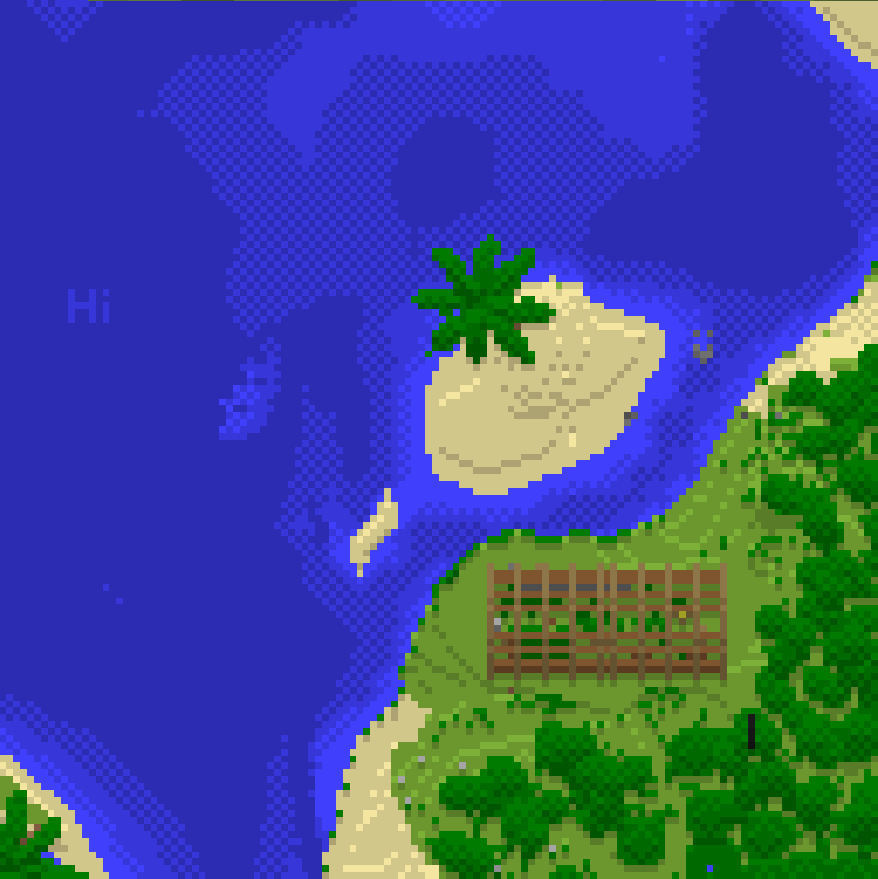
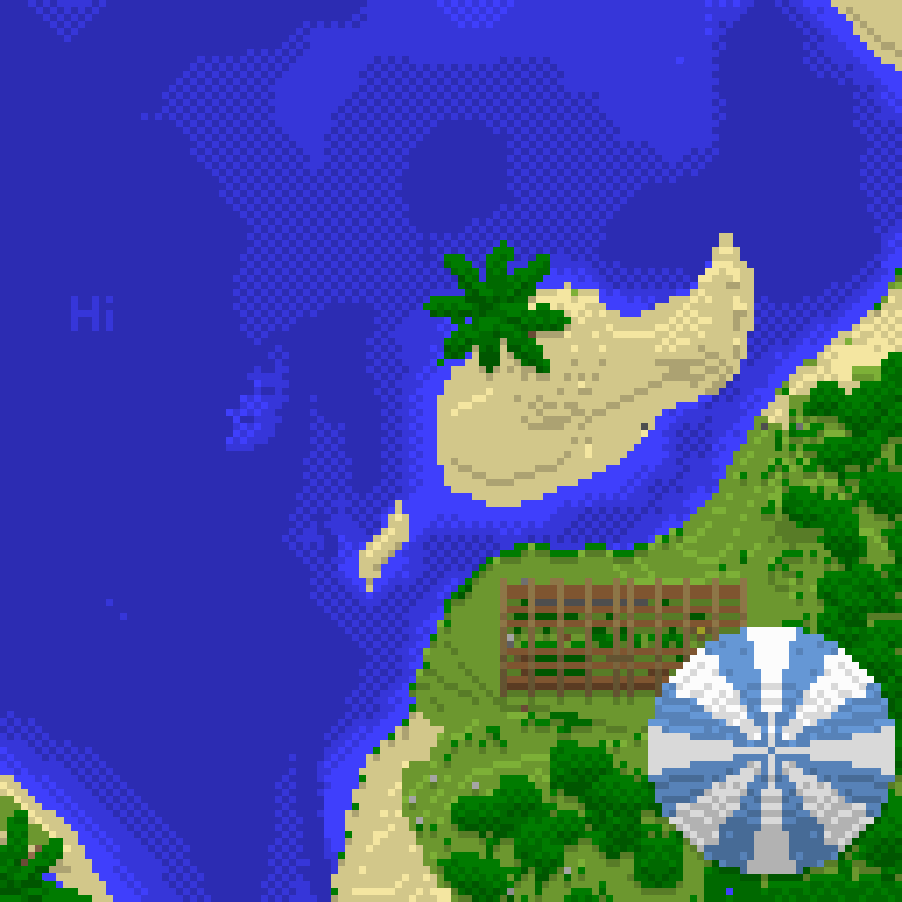
add cookieters maparts updated my base

diff --git a/fullzoom/list.js b/fullzoom/list.js
@@ -11,8 +11,15 @@ fulllist.push("2,-18");
 fulllist.push("2,-19");
 fulllist.push("3,-18");
 fulllist.push("3,-19");
+fulllist.push("41,-45");
+fulllist.push("41,-46");
 fulllist.push("4,-18");
 fulllist.push("4,-19");
+fulllist.push("42,-45");
+fulllist.push("42,-46");
+fulllist.push("43,-45");
+fulllist.push("43,-46");
+fulllist.push("43,-47");
 fulllist.push("5,-5");
 fulllist.push("5,-6");
 fulllist.push("6,11");
